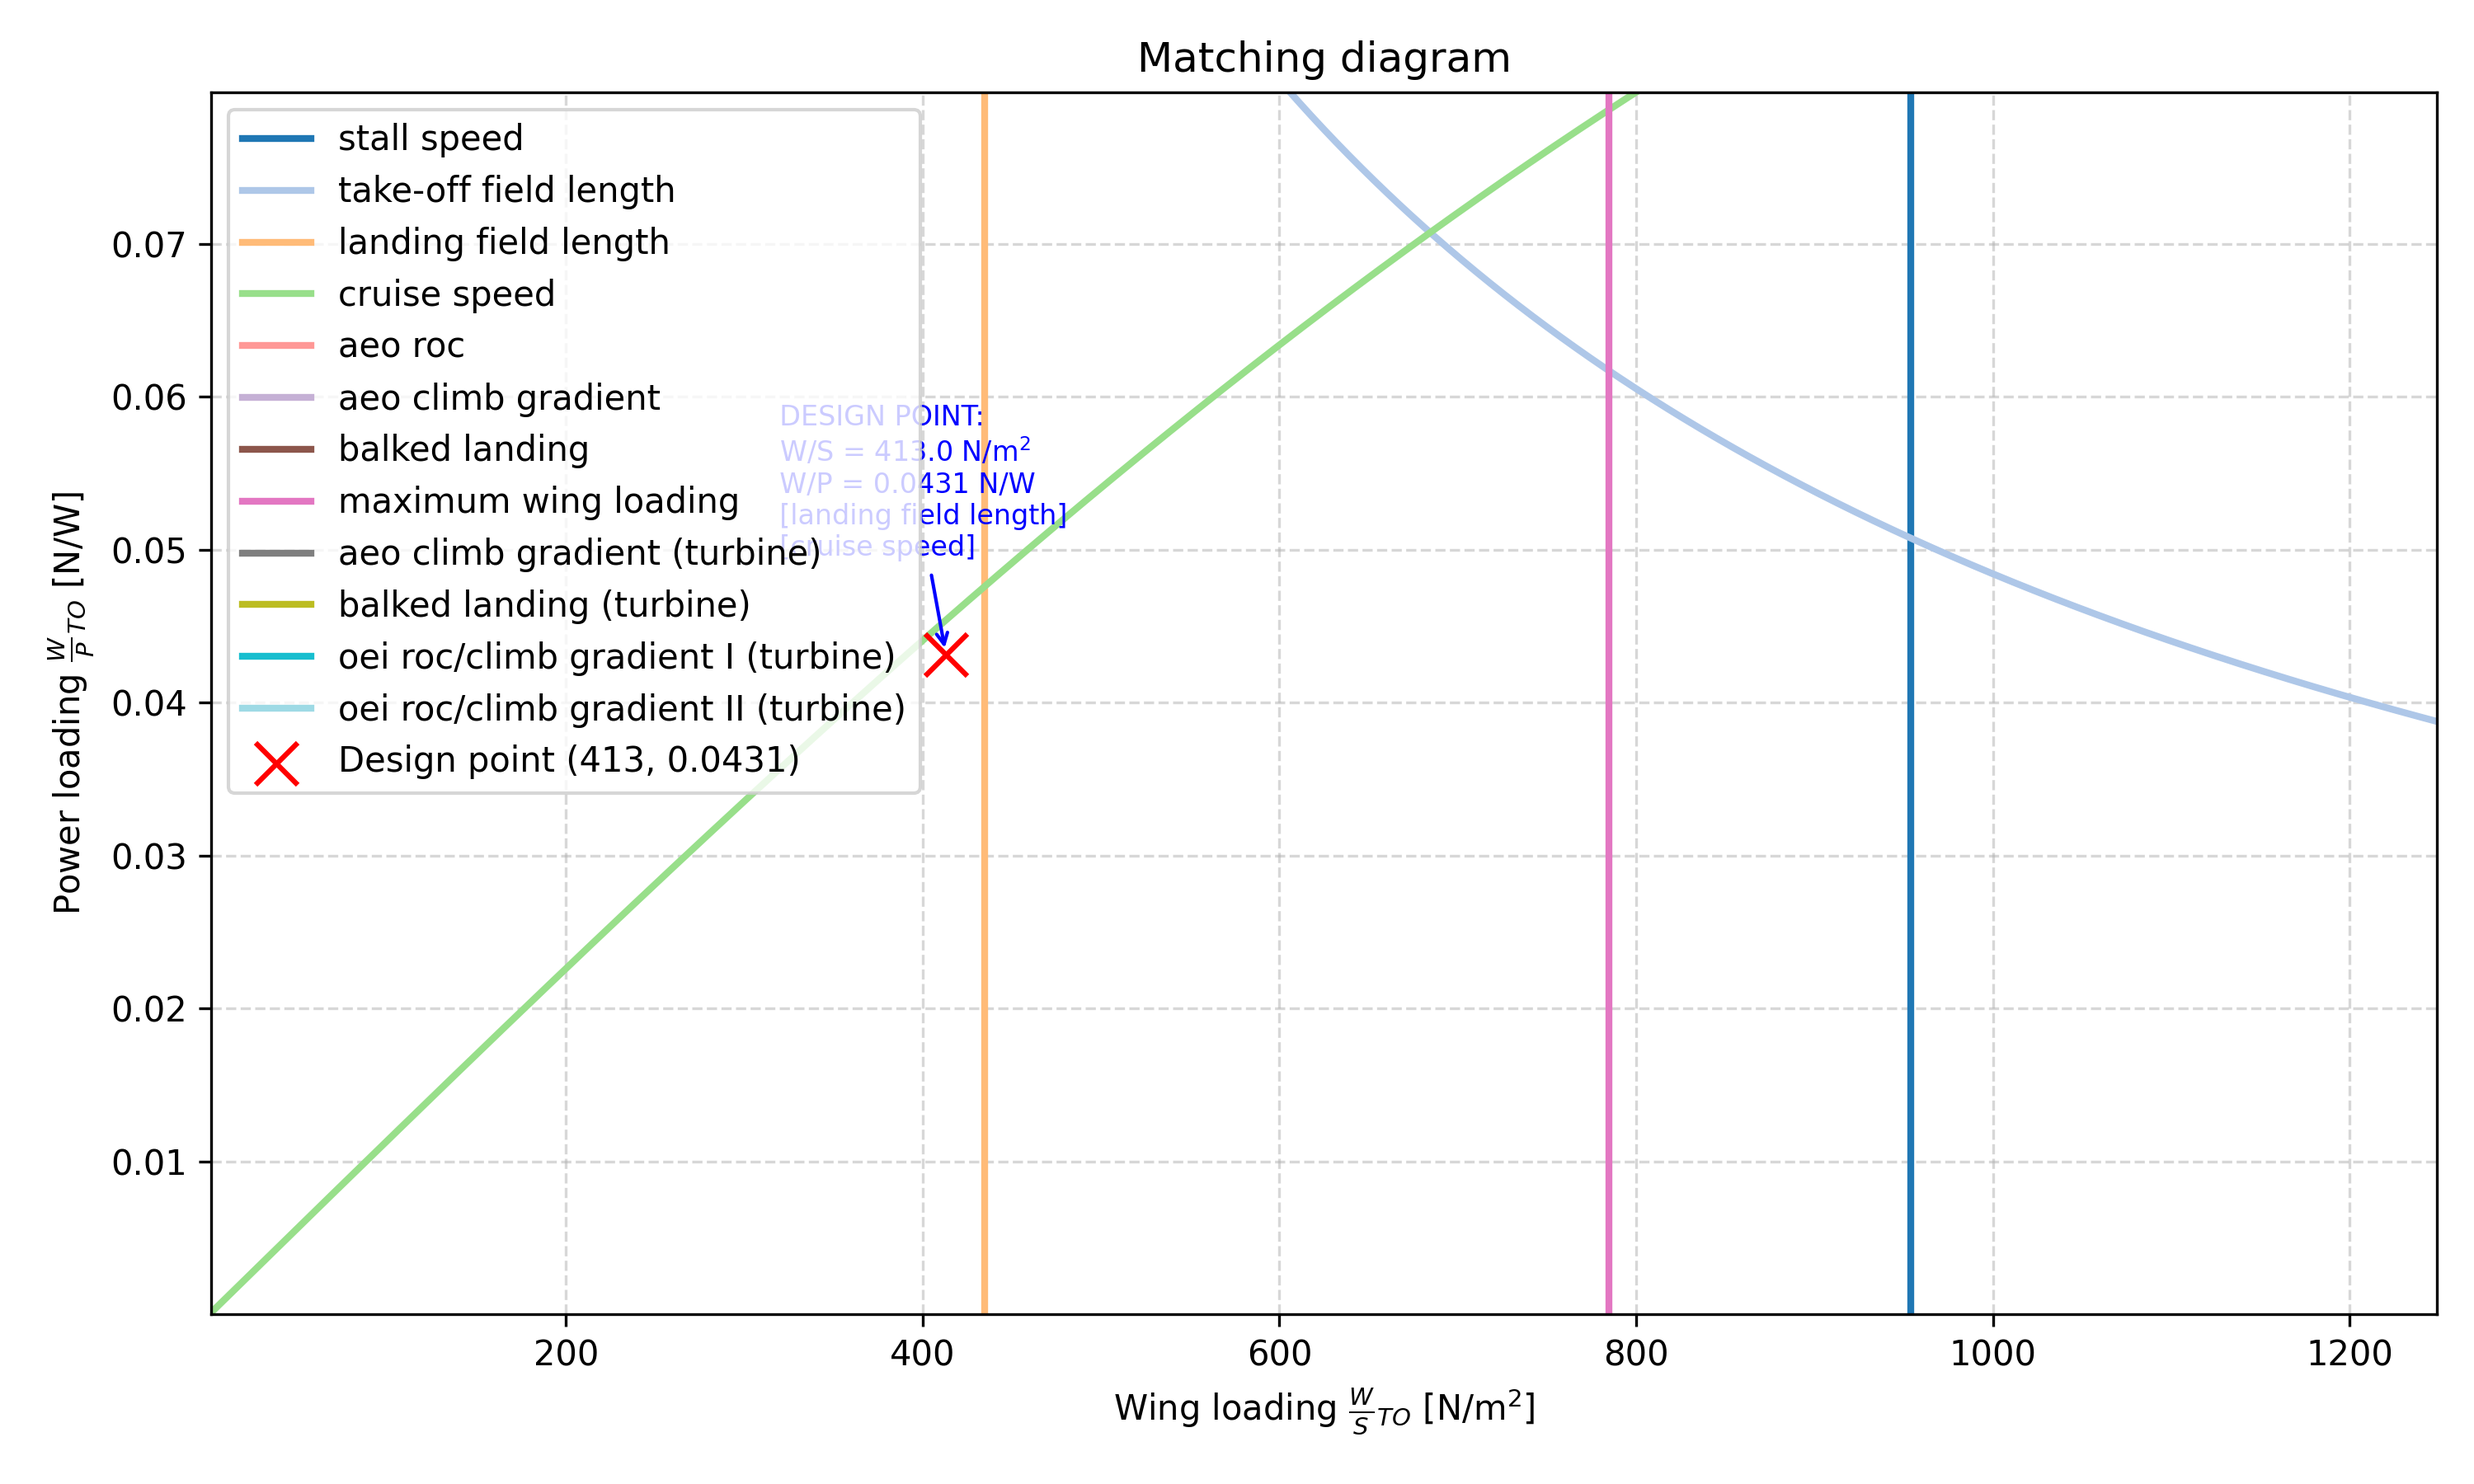
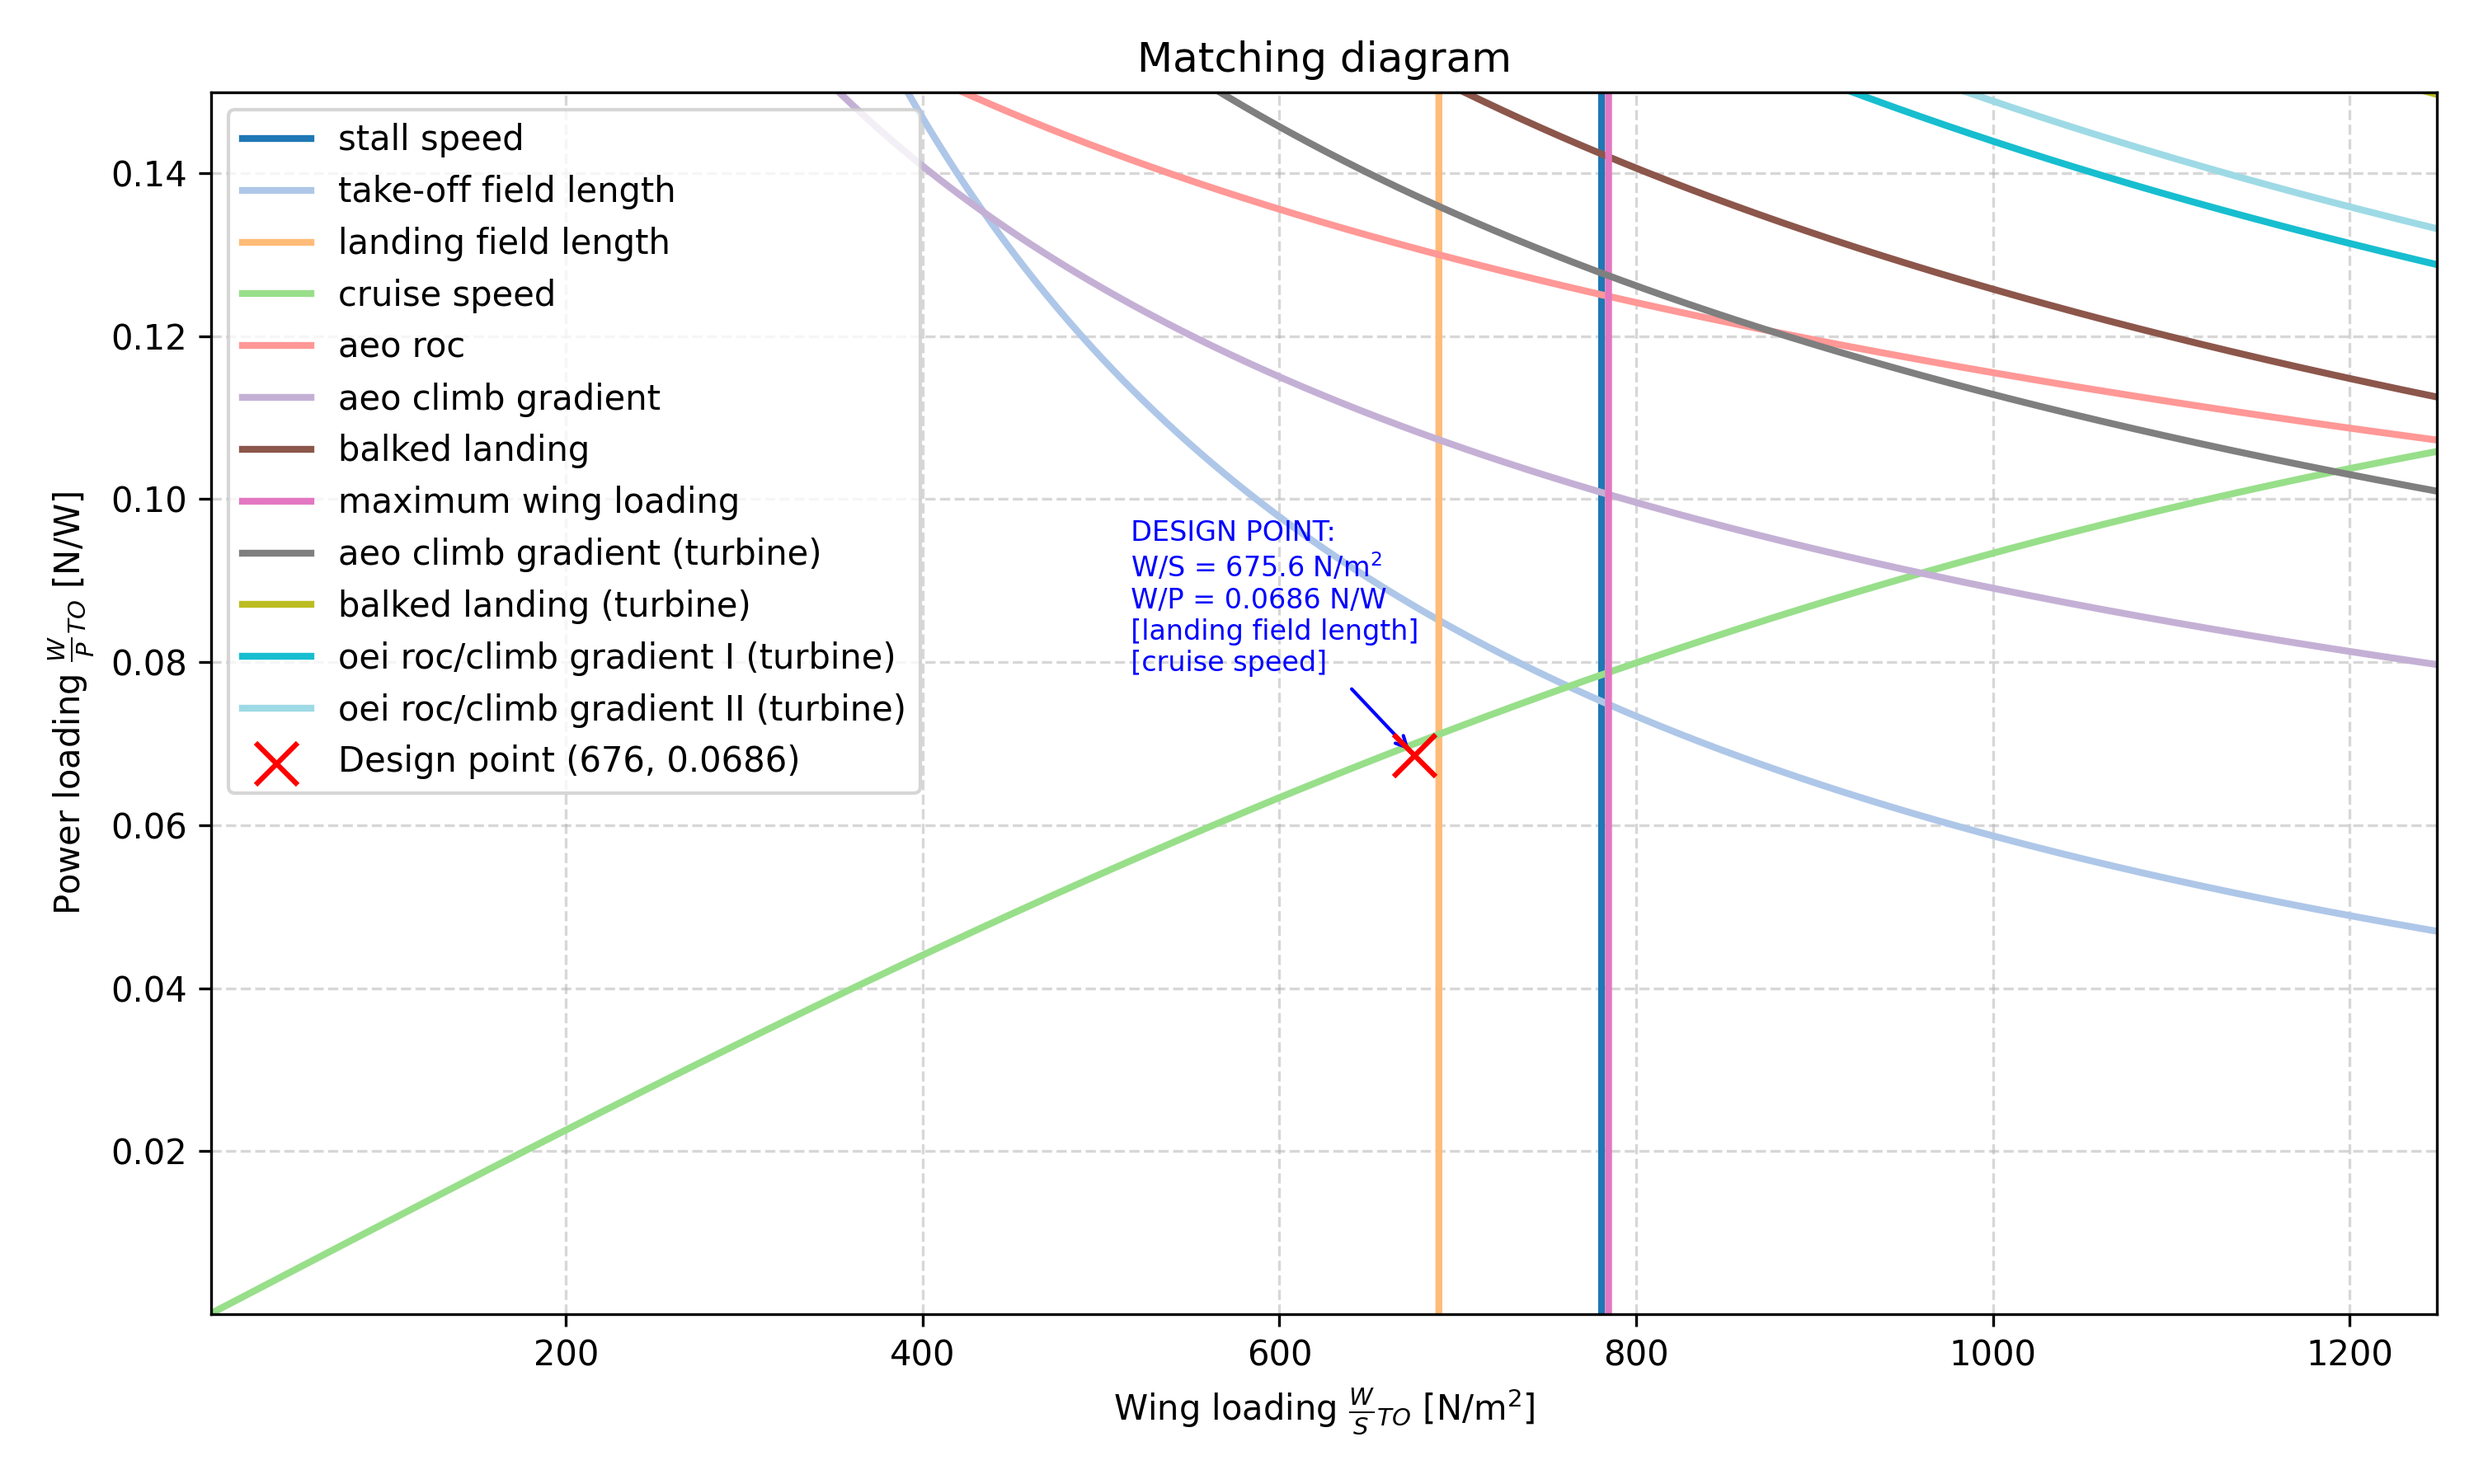
matching fixes

diff --git a/class1/c1_matching_comparison.py b/class1/c1_matching_comparison.py
@@ -143,8 +143,8 @@ def Weight_est_and_match_concept(ac : Aircraft,  # Change units
         W_S_plot: np.ndarray = np.arange(0,10000,5),
         W_P_or_T_W_plot: np.ndarray = np.arange(0,10000,5), 
         output_filepath_base: str = 'outputs/Matching_Diagram', 
-        CL_max_step: float = 0.2, 
-        A_step: float = 2,
+        CL_max_step: float = 0.1, 
+        A_step: float = 0.5,
         n_steps: int = 6) -> dict:
 
     # Initial matching diagram
@@ -316,9 +316,9 @@ def Weight_est_and_match_concept(ac : Aircraft,  # Change units
 def run_sensitivity_study_save_results(aircraft_files: list[str] = ['yamls/aircraft.yaml','yamls/aircraft.yaml','yamls/aircraft.yaml'],
                                        concept_IDs: list[str] = ['CP_1', 'CP_2', 'CP_3'],
                                        W_S_plot: np.ndarray = np.arange(1,1250),
-                                       W_P_or_T_W_plot: np.ndarray = np.arange(0.00000001,0.08,0.0001),
-                                       CL_max_step: float = 0.2,
-                                       A_step: float = 2,
+                                       W_P_or_T_W_plot: np.ndarray = np.arange(0.00000001,0.15,0.0001),
+                                       CL_max_step: float = 0.1,
+                                       A_step: float = 0.5,
                                        n_steps: int = 6,
                                        ) -> None:
 
@@ -628,4 +628,4 @@ if __name__ == '__main__':
     file_paths_A, file_paths_CL = run_sensitivity_study_save_results()
     plot_sensitivity_study(file_paths_A, file_paths_CL, output_path, param='A')
     plot_sensitivity_study(file_paths_A, file_paths_CL, output_path, param='CL_max_LD')
-    # plot_matching_and_select_design_point(ac,W_P_plot=np.arange(0.00000001,0.08,0.0001), W_S_plot=np.arange(1,1250))
+    # plot_matching_and_select_design_point(ac,W_P_plot=np.arange(0.00000001,0.15,0.0001), W_S_plot=np.arange(1,1250))

diff --git a/class1/matching_diagram.py b/class1/matching_diagram.py
@@ -326,7 +326,7 @@ def balked_landing(ac : Aircraft,
 
 # NOTE: add this function to logbook because Claude helped
 def find_design_point(datasets, max_wingloading,
-                      ws_margin_frac=0.05, wp_margin_frac=0.05):
+                      ws_margin_frac=0.02, wp_margin_frac=0.02):
     """
     Automatically selects the optimal (most upper-right) design point
     from a matching diagram, respecting all constraints with margin.
@@ -448,8 +448,8 @@ def plot_matching_and_select_design_point(ac : Aircraft,  # Change units
         ax.plot(ds["x"], ds["y"], color=color, label=ds["label"], linewidth=2)
 
     result = find_design_point(datasets, max_wingloading=ac.requirements.general["max_wing_loading"]*g,
-                                ws_margin_frac=0.05,
-                                wp_margin_frac=0.05)
+                                ws_margin_frac=0.02,
+                                wp_margin_frac=0.02)
 
     print(f"Design point:  W/S = {result['W_S']:.1f}  |  W/P = {result['W_P']:.4f}")
     print(f"Limited in W/S by: {result['limiting_ws_constraint']}")
@@ -501,4 +501,4 @@ if __name__ == '__main__':
     target_class = Aircraft
     ac = loader.load(file_path, target_class)
 
-    plot_matching_and_select_design_point(ac,W_P_plot=np.arange(0.00000001,0.08,0.0001), W_S_plot=np.arange(1,1250), show_plot=False)
+    plot_matching_and_select_design_point(ac,W_P_plot=np.arange(0.00000001,0.15,0.0001), W_S_plot=np.arange(1,1250), show_plot=True)
